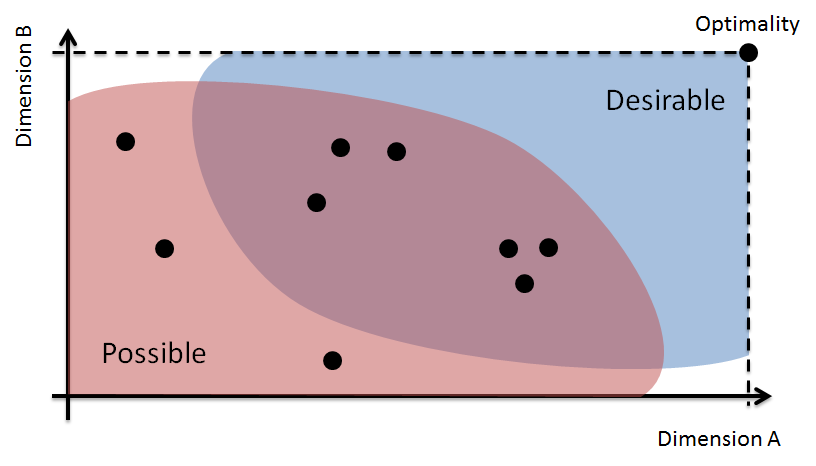
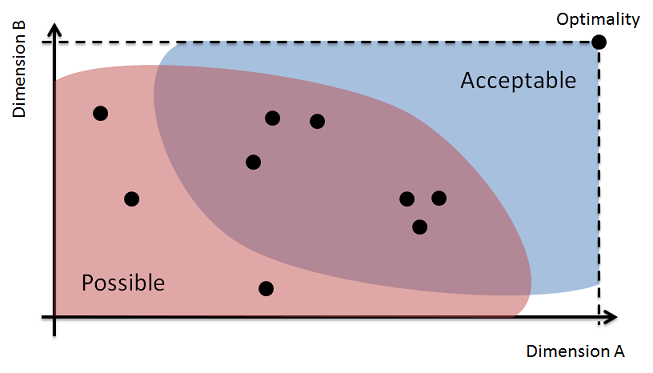
Minor corrections to design space

diff --git a/modules/Module-01.md b/modules/Module-01.md
@@ -24,7 +24,7 @@ The idea of **encapsulation** is to "to enclose in or as if in a capsule" [[Merr
 
 One of the first problem we will tackle in this module is to design an abstraction that can conveniently represent a single playing card. In a standard deck of cards there are 52 distinct cards and any given card can be completely defined by its *suit* (Hearts, Spades, Diamonds, Clubs) and its *rank* (Ace, 2, 3,...,10, Jack, Queen, King). In a program we can represent a playing card in many different ways. For example, using a single integer between 0 and 51 where the value of the integer somehow represents the card. Or, we could represent a card using a combination of 8 boolean values (insane but technically possible). Here to apply the principle of information hiding, we would organize our program structure so as to *hide* the decision of how exactly we represent a card in the program.
 
-The fact that we can represent a card in many different ways is also a good illustration of the concept of a **design space**. The design space is an imaginary multi-dimensional vector space where every dimension corresponds to a design quality attribute (like understandability, reusability, ease of implementation, etc.). Within such a design space, each specific desing decision corresponds to a point. The figure below illustrates the idea. Each decision is likely to be good in some dimension, but less good in others, something we call a **design trade-off**. Two sub-spaces of the design space that are useful to consider are the space of *possible solutions*, and the space of *desirable solutions*. Note that the theoretically optimal solution, which best satisfies all dimensions at the same time, is unlikely to be possible. All this to say that design is a decision process for which there is rarely a single "right answer", only answers that are better or worse in some dimensions (including some answers that are pretty bad in most dimensions). In practice, the challenge of choosing a point in the design space is compounded by the fact that assessing the quality of a solution, even within a single dimension, is a very approximate process, and that we don't usually know what the optimal solution is.
+The fact that we can represent a card in many different ways is also a good illustration of the concept of a **design space**. The design space is an imaginary multi-dimensional vector space where every dimension corresponds to a design quality attribute (like understandability, reusability, ease of implementation, etc.). Within such a design space, each specific design decision corresponds to a point. The figure below illustrates the idea. Each decision is likely to be good in some dimension, but less good in others, something we call a **design trade-off**. Two sub-spaces of the design space that are useful to consider are the space of *possible solutions*, and the space of *acceptable solutions*. Note that the theoretically optimal solution, which best satisfies all dimensions at the same time, is unlikely to be possible. All this to say that design is a decision process for which there is rarely a single "right answer", only answers that are better or worse in some dimensions (including some answers that are pretty bad in most dimensions). In practice, the challenge of choosing a point in the design space is compounded by the fact that assessing the quality of a solution, even within a single dimension, is a very approximate process, and that we don't usually know what the optimal solution is.
 
 ![Exploring the design space](figures/m00-DesignSpace.png)
 
